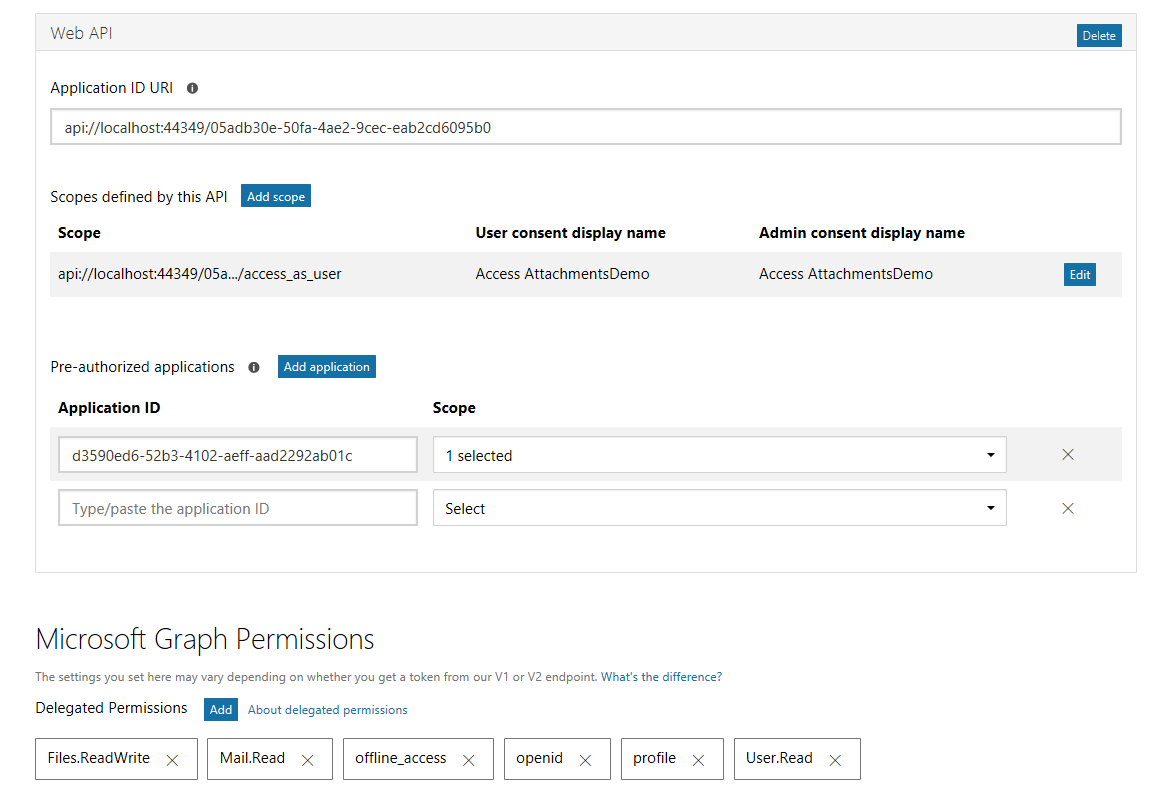
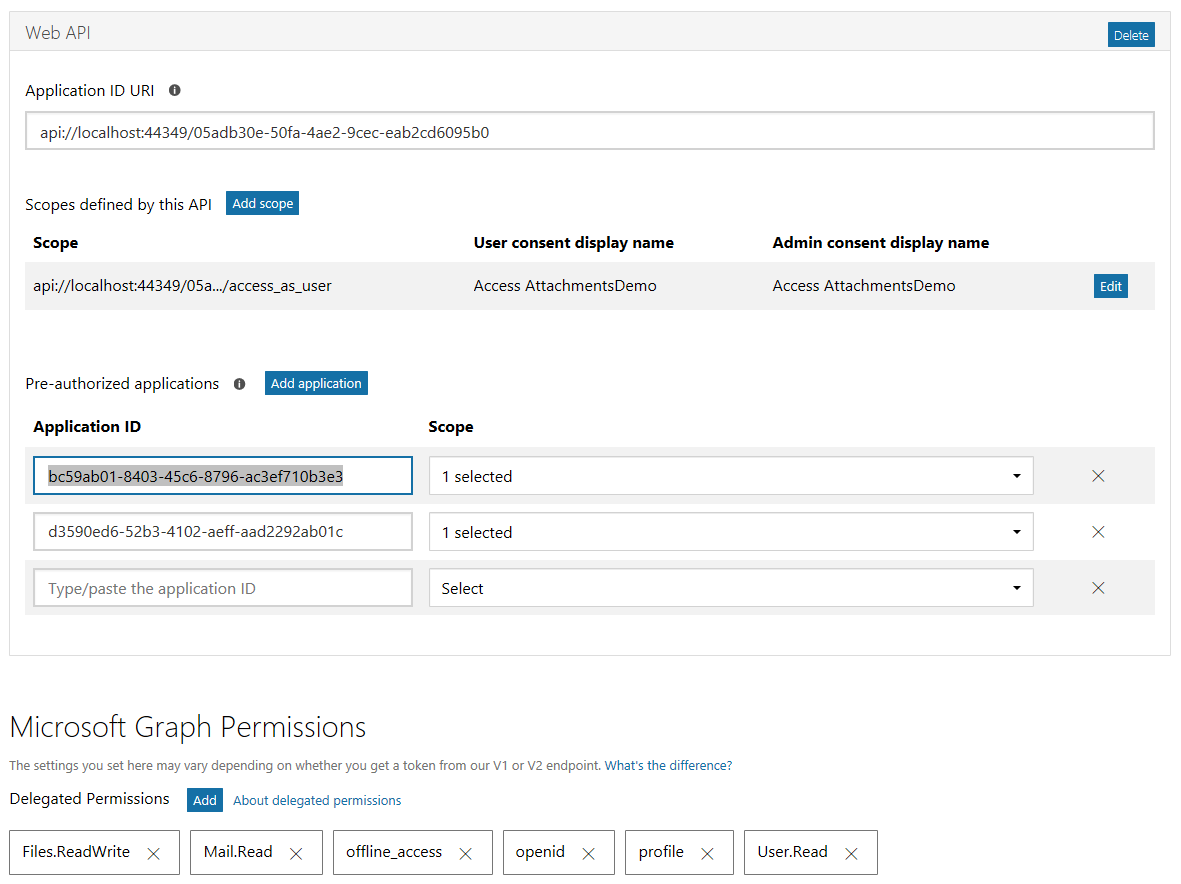
Update README to add pre-auth for Outlook on the web

diff --git a/ReadMe.md b/ReadMe.md
@@ -21,7 +21,8 @@ Before you run the sample, you'll need to do a few things to make it work proper
         
     1. Click **Add Platform**. Choose **Web API**. Configure this section as follows:
         - Under **Application ID URI**, change the default value by inserting your host and port number before the GUID listed there. For example, if the default value is `api://05adb30e-50fa-4ae2-9cec-eab2cd6095b0`, and your app is running on `localhost:44349`, the value is `api://localhost:44349/05adb30e-50fa-4ae2-9cec-eab2cd6095b0`.
-        - Under **Pre-authorized applications**, enter `d3590ed6-52b3-4102-aeff-aad2292ab01c` for the **Application ID**. Click the **Scope** dropdown and select the only entry there. This preauthorizes Office to access the app.
+        - Under **Pre-authorized applications**, enter `d3590ed6-52b3-4102-aeff-aad2292ab01c` for the **Application ID**. Click the **Scope** dropdown and select the only entry there. This pre-authorizes Desktop Office (on Windows) to access the app.
+        - Under **Pre-authorized applications**, enter `bc59ab01-8403-45c6-8796-ac3ef710b3e3` for the **Application ID**. Click the **Scope** dropdown and select the only entry there. This pre-authorizes Outlook on the web to access the app.
     1. Locate the **Microsoft Graph Permissions** section in the app registration. Next to **Delegated Permissions**, click **Add**. Select **Files.ReadWrite**, **Mail.Read**, **offline_access**, **openid**, and **profile**. Click **OK**.
 
 Click **Save** to complete the registration. Copy the **Application Id** and save it in the same place with the app password you saved earlier. We'll need those values soon.
@@ -41,7 +42,7 @@ Edit [Web.config](AttachmentDemoWeb/Web.config) and replace the `YOUR APP ID HER
 
 ## Provide user consent to the app
 
-In this step we will provide user consent to the permissions we just configured on the app. This step is **only** necessary because we will be sideloading the add-in for development and testing. Normally a production add-in will be listed in the Office Store, and users will be prompted to give consent during the installation process through the store.
+In this step we will provide user consent to the permissions we just configured on the app. This step is **only** necessary because we will be side-loading the add-in for development and testing. Normally a production add-in will be listed in the Office Store, and users will be prompted to give consent during the installation process through the store.
 
 You have two choices for providing consent. You can use an administrator account and consent once for all users in your Office 365 organization, or you can use any account to consent for just that user.
 
